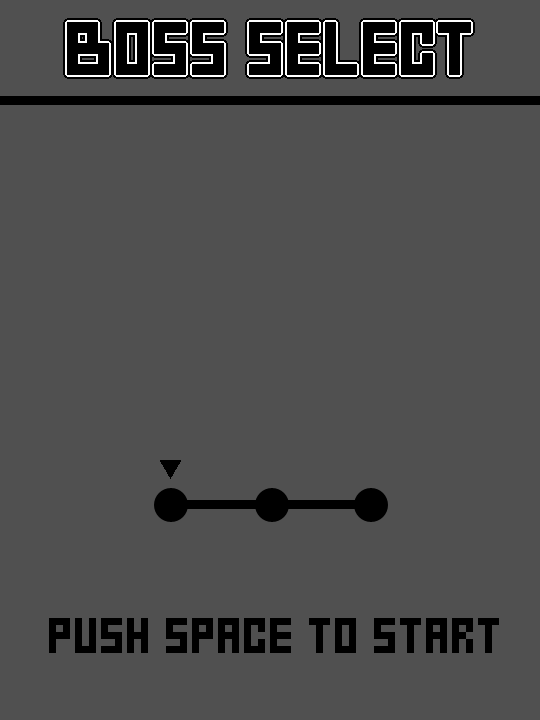
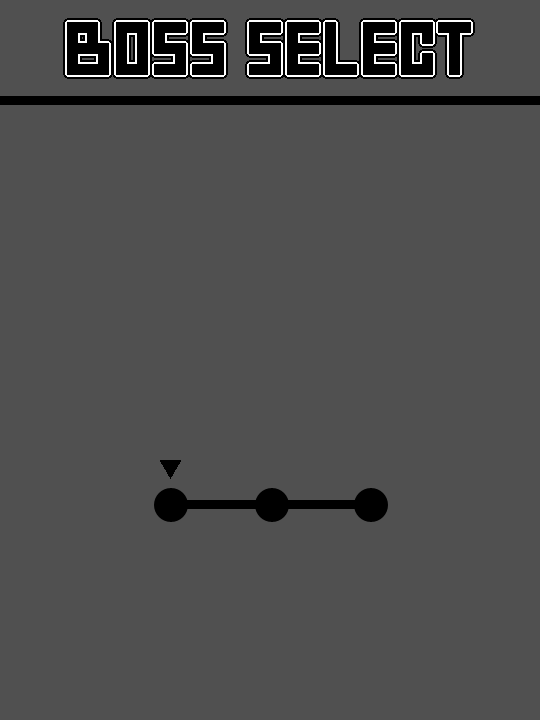
ステージセレクト終了

Changed region(s): [[0.0889, 0.8556, 0.9185, 0.9167]]

diff --git a/Game/StageSerect.cpp b/Game/StageSerect.cpp
@@ -34,7 +34,11 @@ void StageSerect::OnInitialize() {
 	michaelPosterTex_.SetIsActive(false);
 	maxPosterTex_.SetIsActive(false);
 
-
+	SpriteInitialize(pushSpaceToStartTex_, "pushSpaceToStart", { 460.0f, 50.0f });
+	pushSpaceToStartTex_.SetPosition({ kCenter_.x, 100.0f });
+	SpriteInitialize(toBeContinuedTex_, "toBeContinued", { 460, 50.0f });
+	toBeContinuedTex_.SetPosition({ kCenter_.x, 100.0f });
+	toBeContinuedTex_.SetIsActive(false);
 #pragma endregion
 }
 
@@ -55,8 +59,16 @@ void StageSerect::OnUpdate() {
 		glayTex_.SetColor({ tmpColor, tmpColor, tmpColor, Math::Lerp(easeOutCirc(glayFadeOutEasingT_), 0.0f, 1.0f) });
 	}
 
+
 	EasingClamp(posterScaleEasingT_, 0.07f);
 	float scaleMag = 1.2f;
+
+	pushSpaceToStartTex_.SetScale(Vector2::Lerp(easeOutCirc(pushSpaceScaleEasingT_), { 460.0f * 1.2f, 50.0f * 1.2f }, { 460.0f, 50.0f }));
+	EasingClamp(pushSpaceScaleEasingT_, 0.04f);
+	if (pushSpaceScaleEasingT_ == 1.0f) {
+		pushSpaceScaleEasingT_ = 0.0f;
+	}
+
 	// 選んでる状態ごとの更新
 	switch (state_) {
 	case StageSerect::kStage1:
@@ -79,6 +91,9 @@ void StageSerect::OnUpdate() {
 
 		maxTex_.SetIsActive(false);
 		maxPosterTex_.SetIsActive(false);
+
+		pushSpaceToStartTex_.SetIsActive(true);
+		toBeContinuedTex_.SetIsActive(false);
 		break;
 	case StageSerect::kStage3:
 		State3Update();
@@ -88,6 +103,9 @@ void StageSerect::OnUpdate() {
 		maxTex_.SetIsActive(true);
 		maxPosterTex_.SetIsActive(true);
 		maxPosterTex_.SetScale(Vector2::Lerp(easeOutCirc(posterScaleEasingT_), { 474.0f * scaleMag, 303.0f * scaleMag }, { 474.0f, 303.0f }));
+
+		pushSpaceToStartTex_.SetIsActive(false);
+		toBeContinuedTex_.SetIsActive(true);
 		break;
 	}
 

diff --git a/Game/StageSerect.h b/Game/StageSerect.h
@@ -72,6 +72,10 @@ private://メンバ変数
 	Sprite maxPosterTex_;
 	float posterScaleEasingT_ = 0.0f;
 
+	Sprite pushSpaceToStartTex_;
+	float pushSpaceScaleEasingT_ = 0.0f;
+	Sprite toBeContinuedTex_;
+
 #pragma endregion
 
 };
